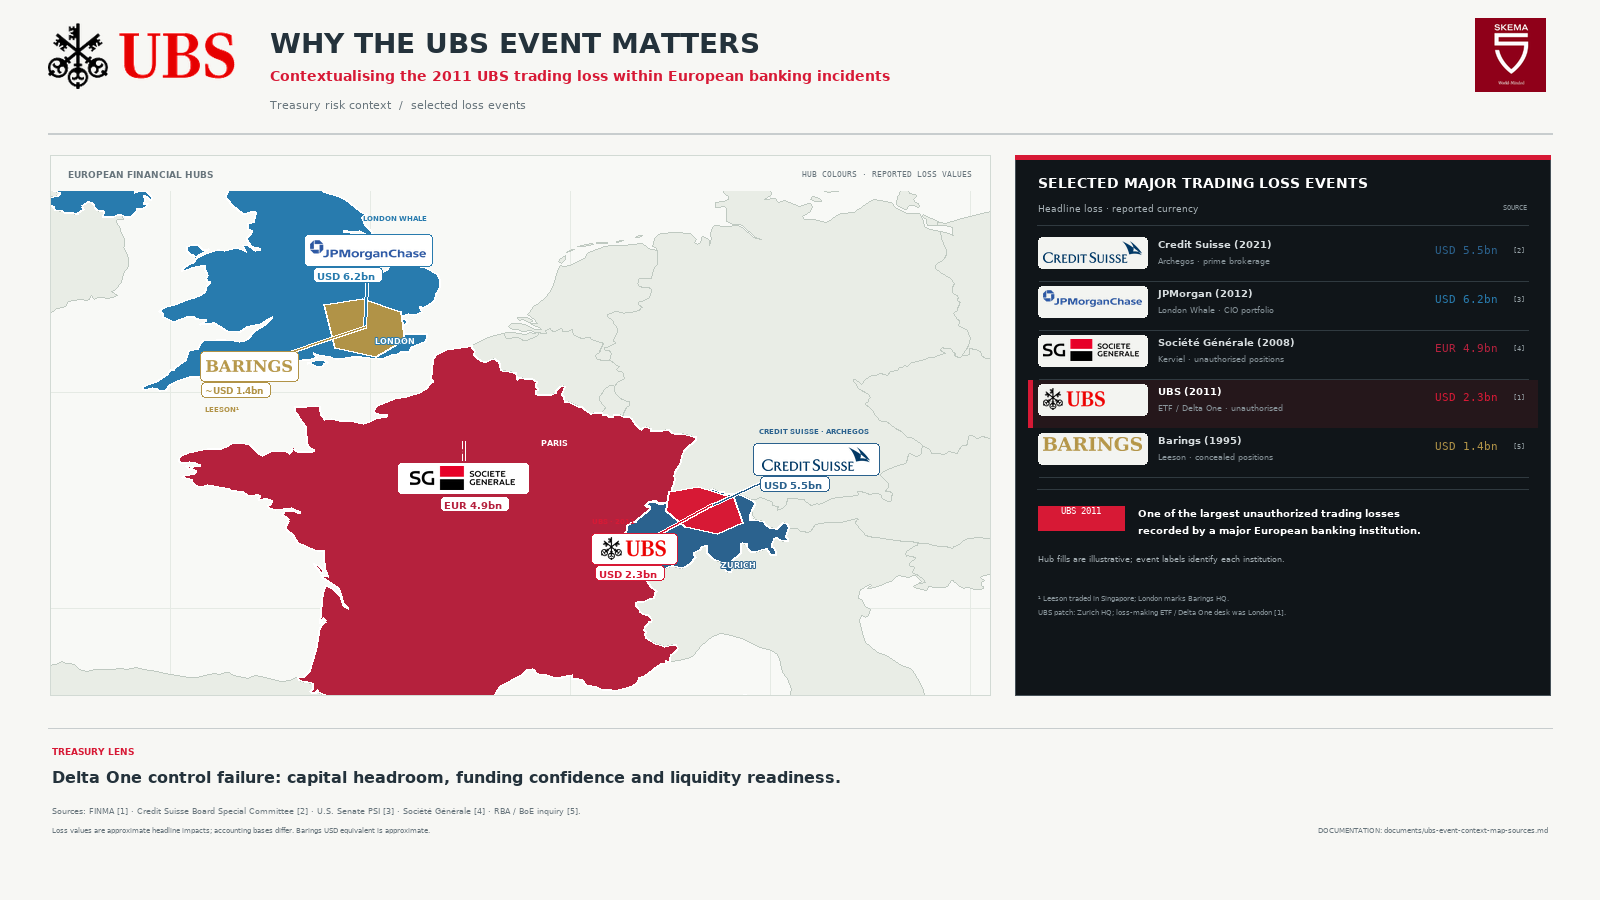
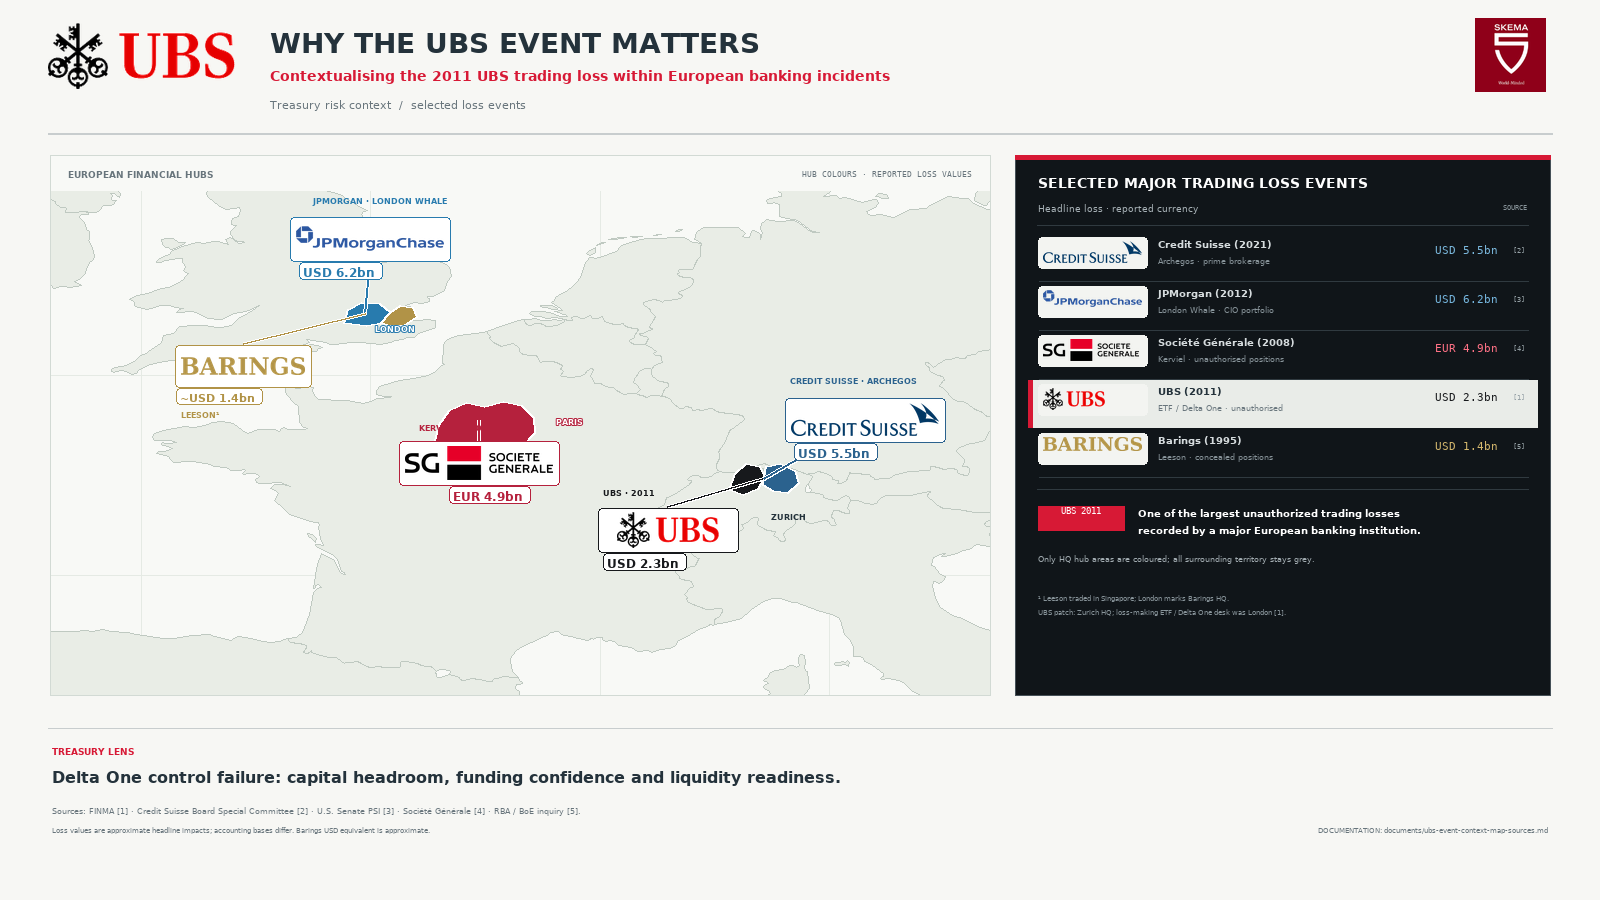
Color only headquarters hubs on trading-loss map

diff --git a/documents/build_ubs_event_context_map.py b/documents/build_ubs_event_context_map.py
@@ -9,7 +9,7 @@ W,H=1600,900
 PAPER='#F7F7F4'; INK='#24323B'; MUTED='#68757C'; RULE='#C8CDCE'
 PANEL='#101519'; PANEL_RULE='#303A40'
 MAP_WATER='#F8F9F6'; MAP_LAND='#E9EDE6'; MAP_COAST='#BFC9C1'
-UBS_RED='#D71935'; CS_BLUE='#2B628E'; JPM_BLUE='#287BAE'; SG_RED='#B5213D'; BARINGS_GOLD='#B19347'; WHITE='#FFFFFF'
+UBS_RED='#D71935'; UBS_BLACK='#17191C'; CS_BLUE='#2B628E'; JPM_BLUE='#287BAE'; SG_RED='#B5213D'; BARINGS_GOLD='#B19347'; WHITE='#FFFFFF'
 FONT='/usr/share/fonts/truetype/dejavu/DejaVuSans.ttf'
 BOLD='/usr/share/fonts/truetype/dejavu/DejaVuSans-Bold.ttf'
 SERIF='/usr/share/fonts/truetype/dejavu/DejaVuSerif-Bold.ttf'
@@ -56,13 +56,14 @@ logos={
 barings=Image.new('RGBA',(460,100),(255,255,255,0));bd=ImageDraw.Draw(barings)
 bd.text((8,3),'BARINGS',font=f(68,True,serif=True),fill=BARINGS_GOLD)
 logos['BARINGS']=crop_logo(barings)
-brand={'CS':CS_BLUE,'JPM':JPM_BLUE,'SG':SG_RED,'UBS':UBS_RED,'BARINGS':BARINGS_GOLD}
+brand={'CS':CS_BLUE,'JPM':JPM_BLUE,'SG':SG_RED,'UBS':UBS_BLACK,'BARINGS':BARINGS_GOLD}
+panel_brand={'CS':'#7BB9DE','JPM':'#76B7E0','SG':'#FF7185','UBS':UBS_BLACK,'BARINGS':'#D5B86D'}
 
 # Map panel; retain the UBS European outline and zoom on London, Paris and Zurich.
 mx,my,mw,mh=50,155,940,540
 rect((mx,my,mx+mw,my+mh),MAP_WATER,'#D2DAD4',1)
 map_base=im.copy()
-lon0,lon1=-8.0,15.5;lat0,lat1=43.0,55.5
+lon0,lon1=-7.0,13.5;lat0,lat1=42.0,55.5
 def xy(lon,lat):return (mx+(lon-lon0)/(lon1-lon0)*mw,my+(lat1-lat)/(lat1-lat0)*mh)
 # Gentle grid and contextual land, so the map is not left blank.
 for lon in [-5,0,5,10,15]:line(xy(lon,50)[0],my,xy(lon,50)[0],my+mh,'#E5EAE4',1)
@@ -77,21 +78,21 @@ def draw_country(name,fill,stroke=MAP_COAST,width=1):
         pts=[xy(lon,lat) for lon,lat in ring]
         d.polygon(pts,fill=fill)
         d.line(pts+[pts[0]],fill=stroke,width=width,joint='curve')
-for name in ['Portugal','Spain','Ireland','Belgium','Netherlands','Germany','Denmark','Czechia','Slovakia','Slovenia','Poland','Hungary','Italy','Austria','Luxembourg']:
+for name in ['Portugal','Spain','Ireland','Belgium','Netherlands','Germany','Denmark','Czechia','Slovakia','Slovenia','Poland','Hungary','Italy','Austria','Luxembourg','United Kingdom','France','Switzerland']:
     if name in geometries:draw_country(name,MAP_LAND,MAP_COAST,1)
-# Colour the host regions like the reference map; the label chips identify institutions and events.
-draw_country('United Kingdom',JPM_BLUE,WHITE,2)
-draw_country('France',SG_RED,WHITE,2)
-draw_country('Switzerland',CS_BLUE,WHITE,2)
-# Distinct non-circular hub patches for the second London and Zurich institutions.
+# Only headquarters / metropolitan hubs receive colour; all surrounding territory stays grey.
 def geo_patch(points,fill,outline=WHITE,width=2):
     pts=[xy(lon,lat) for lon,lat in points]
     d.polygon(pts,fill=fill)
     d.line(pts+[pts[0]],fill=outline,width=width,joint='curve')
-# London / Barings: gold angular hub patch within the blue UK region.
-geo_patch([(-1.15,52.05),(-0.18,52.18),(0.75,51.88),(0.86,51.20),(0.13,50.82),(-0.86,51.02)],BARINGS_GOLD)
-# Zurich / UBS: bright-red angular patch over the blue Swiss host region.
-geo_patch([(7.48,47.72),(8.22,47.82),(9.08,47.58),(9.32,46.98),(8.70,46.72),(7.88,46.88),(7.42,47.25)],UBS_RED)
+# Greater London: two adjacent, schematic bank-hub tiles to separate JPMorgan and Barings.
+geo_patch([(-0.58,51.28),(-0.48,51.63),(-0.20,51.82),(0.18,51.79),(0.43,51.57),(0.25,51.30),(-0.10,51.22)],JPM_BLUE)
+geo_patch([(0.21,51.30),(0.43,51.57),(0.64,51.75),(0.91,51.68),(1.00,51.43),(0.74,51.25),(0.45,51.22)],BARINGS_GOLD)
+# Paris and the Île-de-France metropolitan region only; the rest of France remains neutral.
+geo_patch([(1.38,48.36),(1.53,48.02),(1.96,47.91),(2.35,48.03),(2.82,47.98),(3.30,48.22),(3.59,48.56),(3.57,48.92),(3.30,49.20),(2.88,49.31),(2.48,49.18),(2.08,49.29),(1.69,49.08),(1.47,48.74)],SG_RED)
+# Two small adjacent Zurich city tiles avoid a logo collision without colouring Switzerland.
+geo_patch([(7.82,47.10),(7.95,47.53),(8.18,47.78),(8.48,47.70),(8.58,47.43),(8.42,47.13),(8.12,47.00)],UBS_BLACK)
+geo_patch([(8.58,47.43),(8.62,47.72),(8.94,47.80),(9.24,47.62),(9.32,47.30),(9.09,47.04),(8.78,47.08),(8.55,47.25)],CS_BLUE)
 
 # Hub positions and square city points (no proportional circles).
 city={'London':xy(-0.12,51.51),'Paris':xy(2.35,48.86),'Zurich':xy(8.54,47.38)}
@@ -99,7 +100,7 @@ lx,ly=city['London'];px,py=city['Paris'];zx,zy=city['Zurich']
 # City labels in white over the coloured host-country fills.
 d.text((lx+10,ly+9),'LONDON',font=f(8,True),fill=WHITE,stroke_width=1,stroke_fill=JPM_BLUE)
 d.text((px+77,py-4),'PARIS',font=f(8,True),fill=WHITE,stroke_width=1,stroke_fill=SG_RED)
-d.text((zx+9,zy+54),'ZURICH',font=f(8,True),fill=WHITE,stroke_width=1,stroke_fill=CS_BLUE)
+text(zx+8,zy+32,'ZURICH',8,INK,True)
 
 # Flat logo chips echo the club-map reference. Values use each institution's brand colour.
 def logo_chip(key,x,y,w,h):
@@ -116,24 +117,24 @@ def leader(start,end,key):
     x1,y1=start;x2,y2=end
     line(x1,y1,x2,y2,WHITE,4);line(x1,y1,x2,y2,brand[key],2)
 # Hairline connectors tie flat logo plaques to the square hub points (no circles).
-leader(city['London'],(lx+3,ly-61),'JPM')
-leader(city['London'],(lx-116,ly+39),'BARINGS')
-leader(city['Paris'],(px,py+19),'SG')
-leader(city['Zurich'],(zx+102,zy-47),'CS')
-leader(city['Zurich'],(zx-78,zy+43),'UBS')
-# London: two events share one hub, distinguished by colour and separate angular patch / wordmark.
-logo_chip('JPM',lx-61,ly-93,128,32);amount(lx-48,ly-57,'USD 6.2bn','JPM')
-text(lx-52,ly-113,'JPMORGAN · LONDON WHALE',7,JPM_BLUE,True)
-logo_chip('BARINGS',lx-165,ly+24,98,30);amount(lx-160,ly+58,'~USD 1.4bn','BARINGS',9)
-text(lx-160,ly+78,'LEESON¹',7,BARINGS_GOLD,True)
-# Paris: SocGen event
-logo_chip('SG',px-67,py+20,132,32);amount(px-20,py+57,'EUR 4.9bn','SG')
-text(px-59,py+5,'KERVIEL · 2008',7,SG_RED,True)
-# Zurich: Credit Suisse and UBS, offset and tied to the same square hub point.
-logo_chip('CS',zx+41,zy-63,126,32);amount(zx+52,zy-27,'USD 5.5bn','CS')
-text(zx+47,zy-79,'CREDIT SUISSE · ARCHEGOS',7,CS_BLUE,True)
-logo_chip('UBS',zx-121,zy+27,86,31);amount(zx-113,zy+62,'USD 2.3bn','UBS')
-text(zx-120,zy+11,'UBS · 2011',7,UBS_RED,True)
+leader(city['London'],(lx+5,ly-54),'JPM')
+leader(city['London'],(lx-122,ly+30),'BARINGS')
+leader(city['Paris'],(px,py+20),'SG')
+leader(city['Zurich'],(zx+103,zy-60),'CS')
+leader(city['Zurich'],(zx-95,zy+28),'UBS')
+# London: enlarged marks and values, with separate local patches for the two institutions.
+logo_chip('JPM',lx-75,ly-98,160,44);amount(lx-62,ly-50,'USD 6.2bn','JPM',12)
+text(lx-52,ly-119,'JPMORGAN · LONDON WHALE',8,JPM_BLUE,True)
+logo_chip('BARINGS',lx-190,ly+30,136,42);amount(lx-185,ly+76,'~USD 1.4bn','BARINGS',11)
+text(lx-184,ly+95,'LEESON¹',8,BARINGS_GOLD,True)
+# Paris / Île-de-France: Société Générale.
+logo_chip('SG',px-80,py+20,160,44);amount(px-26,py+68,'EUR 4.9bn','SG',12)
+text(px-60,py+2,'KERVIEL · 2008',8,SG_RED,True)
+# Zurich: UBS and Credit Suisse labels are deliberately offset but remain Zurich HQ.
+logo_chip('CS',zx+22,zy-82,160,44);amount(zx+35,zy-34,'USD 5.5bn','CS',12)
+text(zx+27,zy-104,'CREDIT SUISSE · ARCHEGOS',8,CS_BLUE,True)
+logo_chip('UBS',zx-165,zy+28,140,44);amount(zx-156,zy+76,'USD 2.3bn','UBS',12)
+text(zx-160,zy+8,'UBS · 2011',8,UBS_BLACK,True)
 # Map title strip and explanation of the non-circular hub colour patches.
 rect((mx+1,my+1,mx+mw-1,my+35),MAP_WATER)
 text(mx+18,my+14,'EUROPEAN FINANCIAL HUBS',9,MUTED,True)
@@ -152,13 +153,13 @@ text(rx+rw-23,ry+48,'SOURCE',7,'#89959B',True,anchor='ra',mono=True)
 line(rx+22,ry+70,rx+rw-22,ry+70,PANEL_RULE,1)
 def panel_logo(key,width,height):return fit(logos[key],width,height)
 def event_row(y,key,name,event,value,source):
-    global d;d=ImageDraw.Draw(im);col=brand[key]
+    global d;d=ImageDraw.Draw(im);col=panel_brand[key]
     if key=='UBS':
-        rect((rx+13,y-5,rx+rw-13,y+42),'#25171B');rect((rx+13,y-5,rx+17,y+42),UBS_RED)
+        rect((rx+13,y-5,rx+rw-13,y+42),'#E9ECE8');rect((rx+13,y-5,rx+17,y+42),UBS_RED)
     d.rounded_rectangle((rx+23,y-1,rx+132,y+30),radius=4,fill='#F3F4F1')
     mark=panel_logo(key,99,22);im.paste(mark,(rx+28,y+3),mark);d=ImageDraw.Draw(im)
-    text(rx+143,y,name,10,WHITE if key=='UBS' else '#D5DBDD',True)
-    text(rx+143,y+18,event,8,'#89959B')
+    text(rx+143,y,name,10,INK if key=='UBS' else '#D5DBDD',True)
+    text(rx+143,y+18,event,8,MUTED if key=='UBS' else '#89959B')
     text(rx+rw-52,y+5,value,11,col,True,anchor='ra',mono=True)
     text(rx+rw-25,y+8,source,7,'#96A1A6',True,anchor='ra',mono=True)
     if key!='UBS':line(rx+24,y+43,rx+rw-22,y+43,PANEL_RULE,1)
@@ -172,7 +173,7 @@ rect((rx+23,ry+351,rx+109,ry+375),UBS_RED)
 text(rx+66,ry+356,'UBS 2011',9,WHITE,True,anchor='mm',mono=True)
 text(rx+123,ry+352,'One of the largest unauthorized trading losses',10,WHITE,True)
 text(rx+123,ry+369,'recorded by a major European banking institution.',10,WHITE,True)
-text(rx+23,ry+399,'Hub fills are illustrative; event labels identify each institution.',8,'#A4AEB3')
+text(rx+23,ry+399,'Only HQ hub areas are coloured; all surrounding territory stays grey.',8,'#A4AEB3')
 text(rx+23,ry+439,'¹ Leeson traded in Singapore; London marks Barings HQ.',7,'#89959B')
 text(rx+23,ry+453,'UBS patch: Zurich HQ; loss-making ETF / Delta One desk was London [1].',7,'#89959B')
 

diff --git a/documents/ubs-event-context-map-sources.md b/documents/ubs-event-context-map-sources.md
@@ -6,7 +6,7 @@
 
 ## What the slide says
 
-UBS is highlighted in its red / black identity; Société Générale uses red, JPMorgan and Credit Suisse use blue, and Barings uses a restrained heritage-gold wordmark. This is a selected context set, not a comprehensive league table. UBS sits among the largest documented unauthorized-trading losses at a major European bank in this comparison, but it is not the largest event shown by dollar value.
+UBS uses a black hub patch / figure with its red-and-black logo; Société Générale uses red, JPMorgan and Credit Suisse use blue, and Barings uses a restrained heritage-gold wordmark. This is a selected context set, not a comprehensive league table. UBS sits among the largest documented unauthorized-trading losses at a major European bank in this comparison, but it is not the largest event shown by dollar value.
 
 The examples are all major bank trading / positions-unwind loss events, but their causes and accounting bases are not identical: UBS, Société Générale and Barings involved unauthorized or concealed trading; JPMorgan's London Whale was a synthetic-credit portfolio loss; Credit Suisse's Archegos loss was a prime-brokerage counterparty exposure. The slide does not imply those causal mechanisms are equivalent.
 
@@ -37,8 +37,8 @@ Institution logos appear for identification and use their brand colours on the m
 
 - As requested, the previous proportional circles have been removed. Losses are written directly beside the bank marks and in the right-hand panel; no circle size or common-currency scale encodes magnitude.
 - Amounts remain in the reported display currency: USD for UBS, Credit Suisse, JPMorgan and Barings; EUR for Société Générale. Barings’ USD 1.4bn is approximate; the official inquiry reports GBP 827m cumulative losses and GBP 927m including close-out costs.
-- The filled UK, France and Switzerland shapes are visual hub fields, not bank ownership or jurisdiction boundaries: JPMorgan-blue UK; Société Générale-red France; Credit Suisse-blue Switzerland; an UBS-red Zurich patch; and a Barings-gold London patch. The map keeps a neutral fill for other countries.
-- Map locations indicate institution / hub locations, not necessarily the precise source of the loss: UBS incident desk—London; UBS and Credit Suisse—Zurich; Société Générale—Paris; JPMorgan London Whale—London; Barings HQ—London, while Leeson traded in Singapore.
+- Only local headquarters / metro patches are coloured: JPMorgan-blue and Barings-gold patches around London; Société Générale-red Île-de-France / Paris; and adjacent Zurich hub patches in UBS black and Credit Suisse blue. The rest of the UK, France, Switzerland and neighboring territory stays neutral grey. These small hub patches are schematic graphic markers, not administrative or bank-ownership boundaries.
+- Map locations indicate institution / hub locations, not necessarily the precise source of the loss: UBS incident desk—London; UBS and Credit Suisse—Zurich; Société Générale—Paris; JPMorgan London Whale—London; Barings HQ—London, while Leeson traded in Singapore. Duplicate London / Zurich callout cards are offset for legibility but are not moved to a different city.
 - No event loss is inflation-adjusted; the slide compares nominal headline impacts across years, not present-value purchasing power.
 
 ## Treasury takeaway
